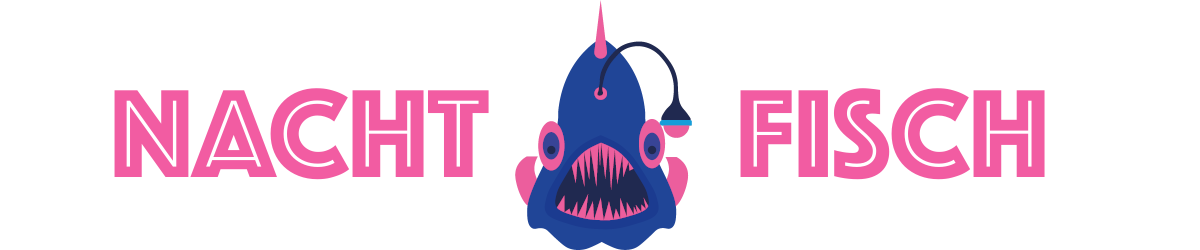
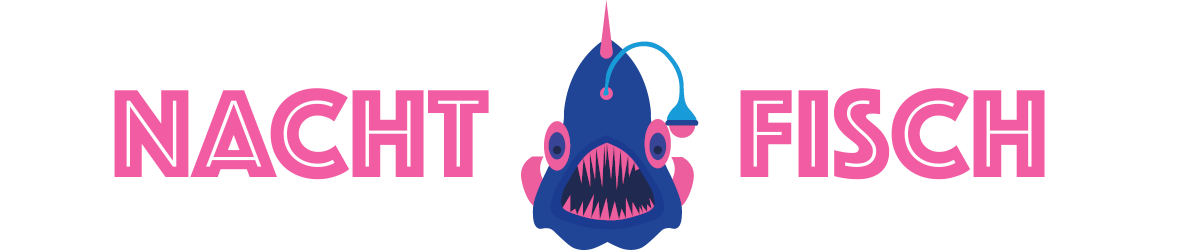
Change header image, adjust button size

Changed region(s): [[0.4317, 0.028, 0.5858, 0.952], [0.4625, 0.924, 0.555, 1.0]]

diff --git a/public/style.css b/public/style.css
@@ -64,12 +64,12 @@ img{
     margin-top: 50px;
     margin-bottom: 50px;
     color: #F25CA2;
-    font-family: phosphate;
+    font-family: Helvetica, sans-serif;
     width: 100%;
     padding-top: 10px;
     padding-bottom: 10px;
     text-align: center;
-    font-size: 30px;
+    font-size: 40px;
 }
 
 button{
@@ -79,11 +79,12 @@ button{
     cursor:pointer;
     overflow: hidden;     
     width: 100%;
-    font-family: phosphate;
-    font-size: 30px;
-    height: 50px;
-    margin-top: 10px;
-    margin-bottom: 10px;
+    font-family: Helvetica, sans-serif;
+    font-size: 40px;
+    margin-top: 5px;
+    margin-bottom: 5px;
+    height: 120px;
+    font-weight: bold;
 }
 
 .details{

diff --git a/public/index.html b/public/index.html
@@ -3,7 +3,7 @@
     <head>
         <meta charset="UTF-8">
         <link rel="stylesheet" href="./style.css">
-        <meta name="description" content="Alle relevanten Ausgangsoptionen in St.Gallen auf einer Seite.">  
+        <meta name="description" content="Folge dem Fisch durch die Nacht">  
         <title>Nachtfisch</title>
     </head>
     <body>
